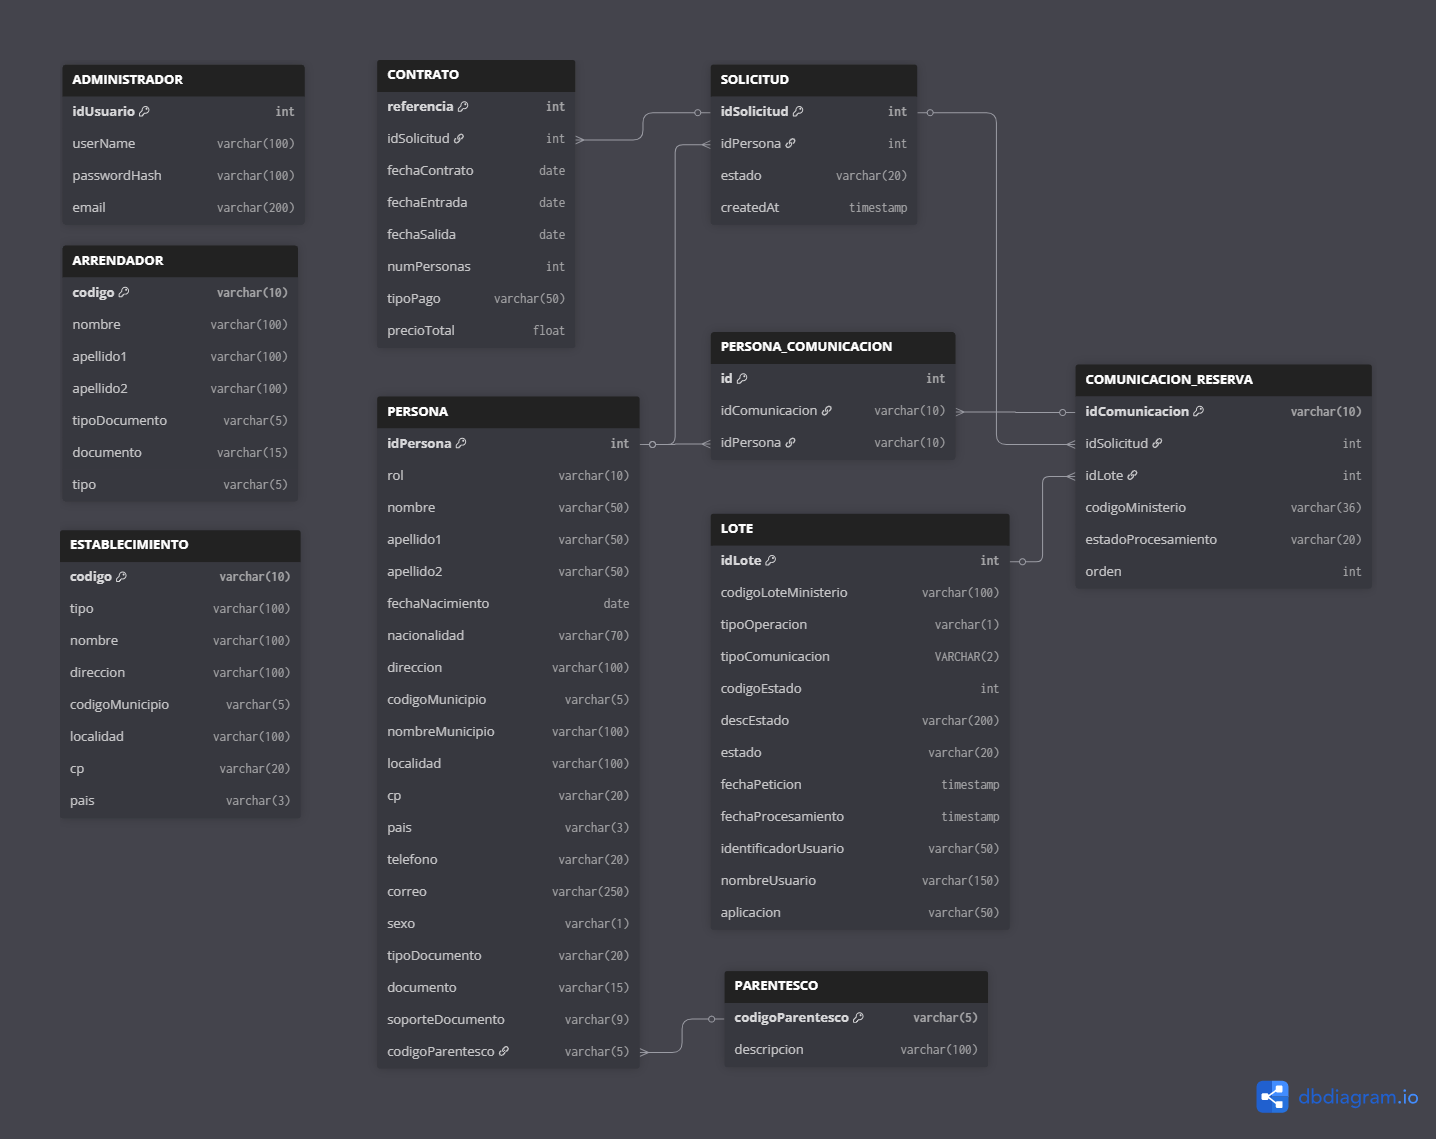
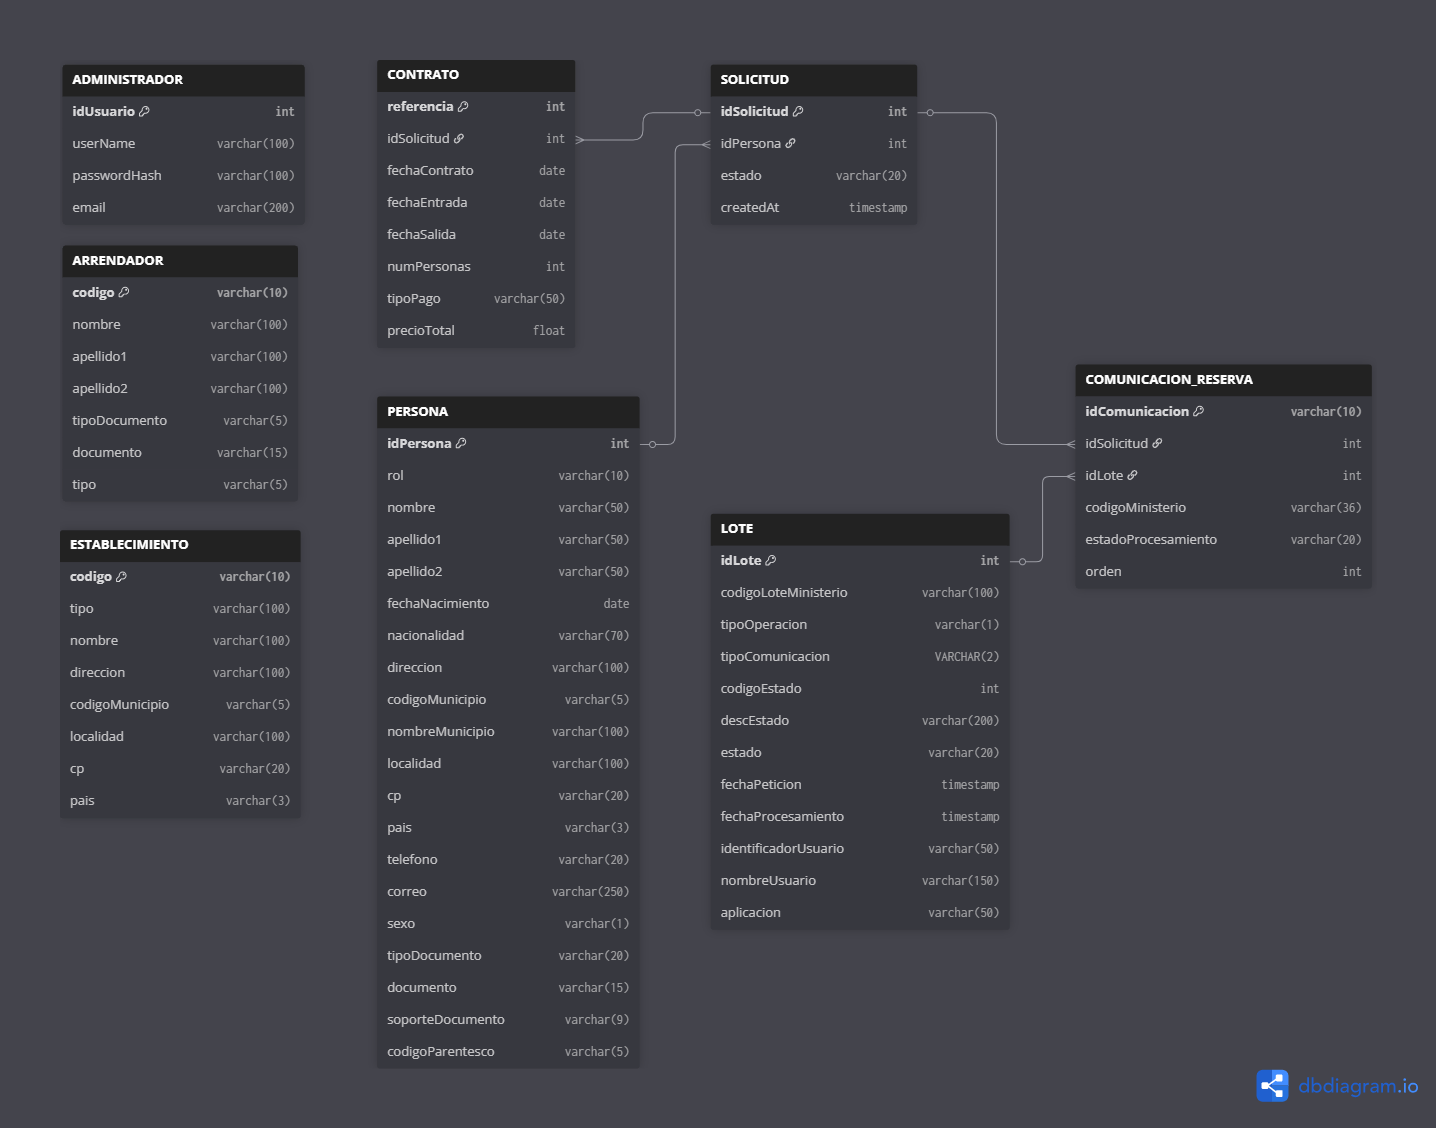
commit del flujoReserva

diff --git a/Backend_BBDD/flujoReserva.md b/Backend_BBDD/flujoReserva.md
@@ -107,20 +107,7 @@ Se crea un registro en **COMUNICACION_RESERVA** por la solicitud:
 
 ---
 
-## 5.-  Relación de personas con la comunicación
-
-Se registran todas las personas incluidas en la reserva en **PERSONA_COMUNICACION**:
-
-| id | idComunicacion | idPersona |
-|----|----------------|-----------|
-| 1  | 501            | 101       |
-| 2  | 501            | 102       |
-
-> Permite enviar ambas personas en la comunicación al Ministerio sin duplicar datos de las personas.
-
----
-
-## 6.-  Envío y respuesta del Ministerio
+## 5.-  Envío y respuesta del Ministerio
 
 Se genera el XML de la comunicación
 
